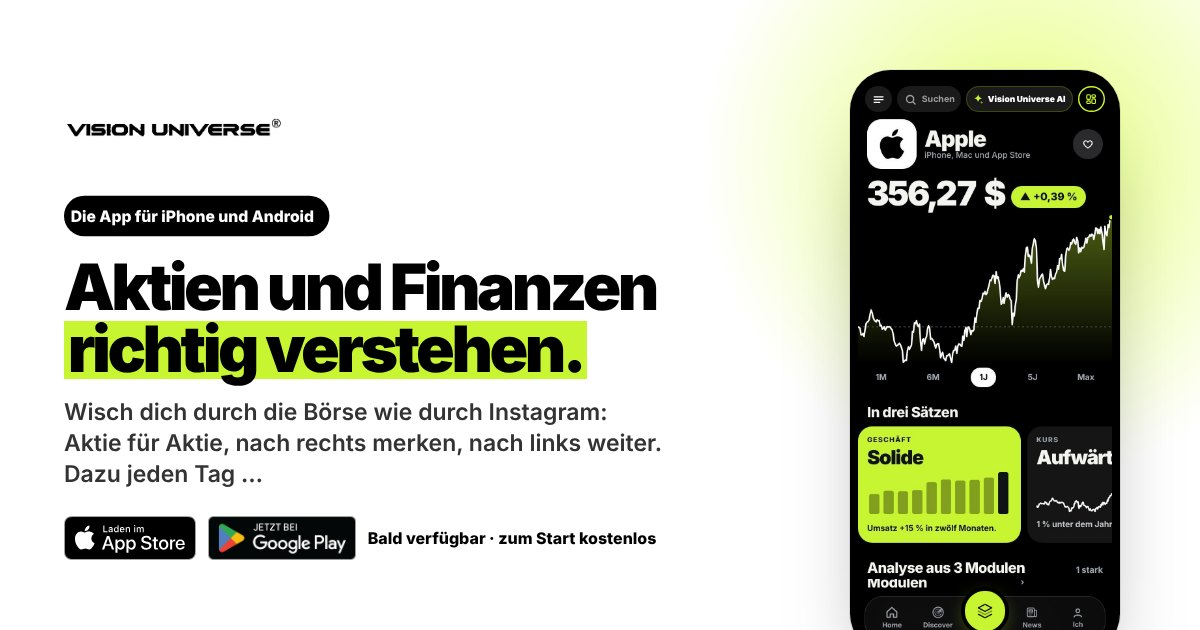
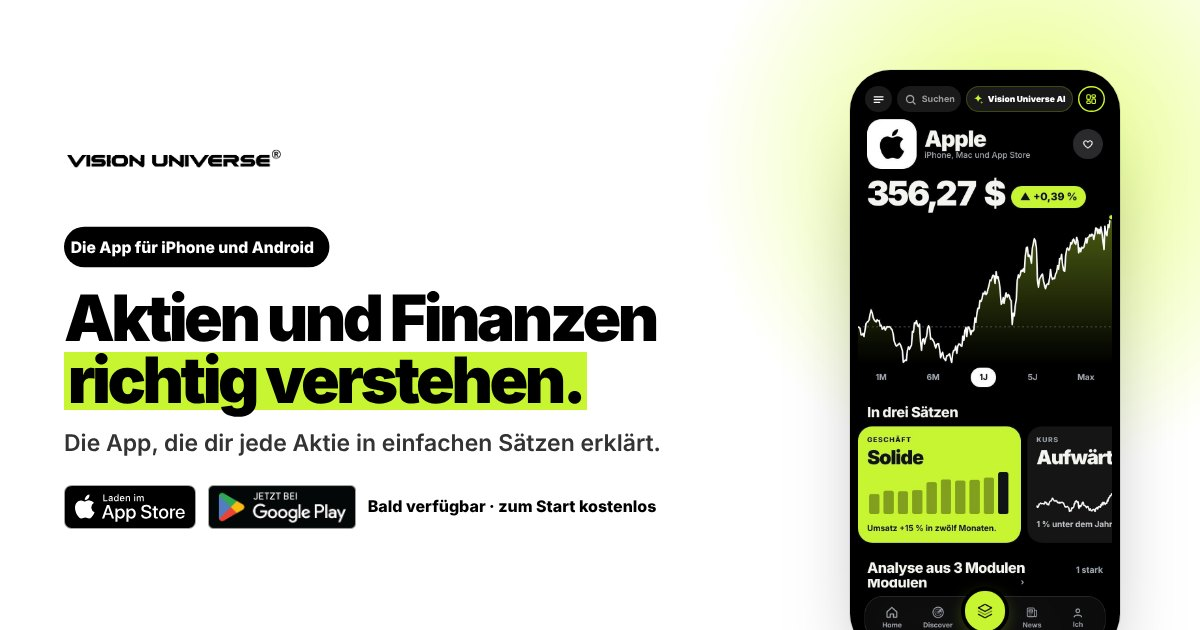
www: Vorschaubeschreibung der Startseite aus dem Hero-Satz
Claude-Session: https://claude.ai/code/session_01DVwZC7n9f15dtz6Bddomj7

Changed region(s): [[0.0308, 0.3016, 0.555, 0.9048], [0.0617, 0.181, 0.2467, 0.2714]]

diff --git a/landing/index.html b/landing/index.html
@@ -4,7 +4,7 @@
 <meta charset="utf-8">
 <meta name="viewport" content="width=device-width, initial-scale=1">
 <title>Vision Universe – Aktien und Finanzen richtig verstehen</title>
-<meta name="description" content="Wisch dich durch die Börse wie durch Instagram: Aktie für Aktie, nach rechts merken, nach links weiter. Dazu jeden Tag neue Listen wie „Neue Jahreshochs“ und 54 Themen von KI bis …">
+<meta name="description" content="Die App, die dir jede Aktie in einfachen Sätzen erklärt.">
 <meta name="robots" content="noindex, nofollow">
 <link rel="canonical" href="https://www.visionuniverse.de/">
 <meta property="og:url" content="https://www.visionuniverse.de/">
@@ -12,7 +12,7 @@
 <meta property="og:locale" content="de_DE">
 <meta property="og:site_name" content="Vision Universe">
 <meta property="og:title" content="Vision Universe – Aktien und Finanzen richtig verstehen">
-<meta property="og:description" content="Wisch dich durch die Börse wie durch Instagram: Aktie für Aktie, nach rechts merken, nach links weiter. Dazu jeden Tag neue Listen wie „Neue Jahreshochs“ und 54 Themen von KI bis …">
+<meta property="og:description" content="Die App, die dir jede Aktie in einfachen Sätzen erklärt.">
 <meta property="og:image" content="https://www.visionuniverse.de/assets/share/home.jpg">
 <meta property="og:image:width" content="1200">
 <meta property="og:image:height" content="630">
